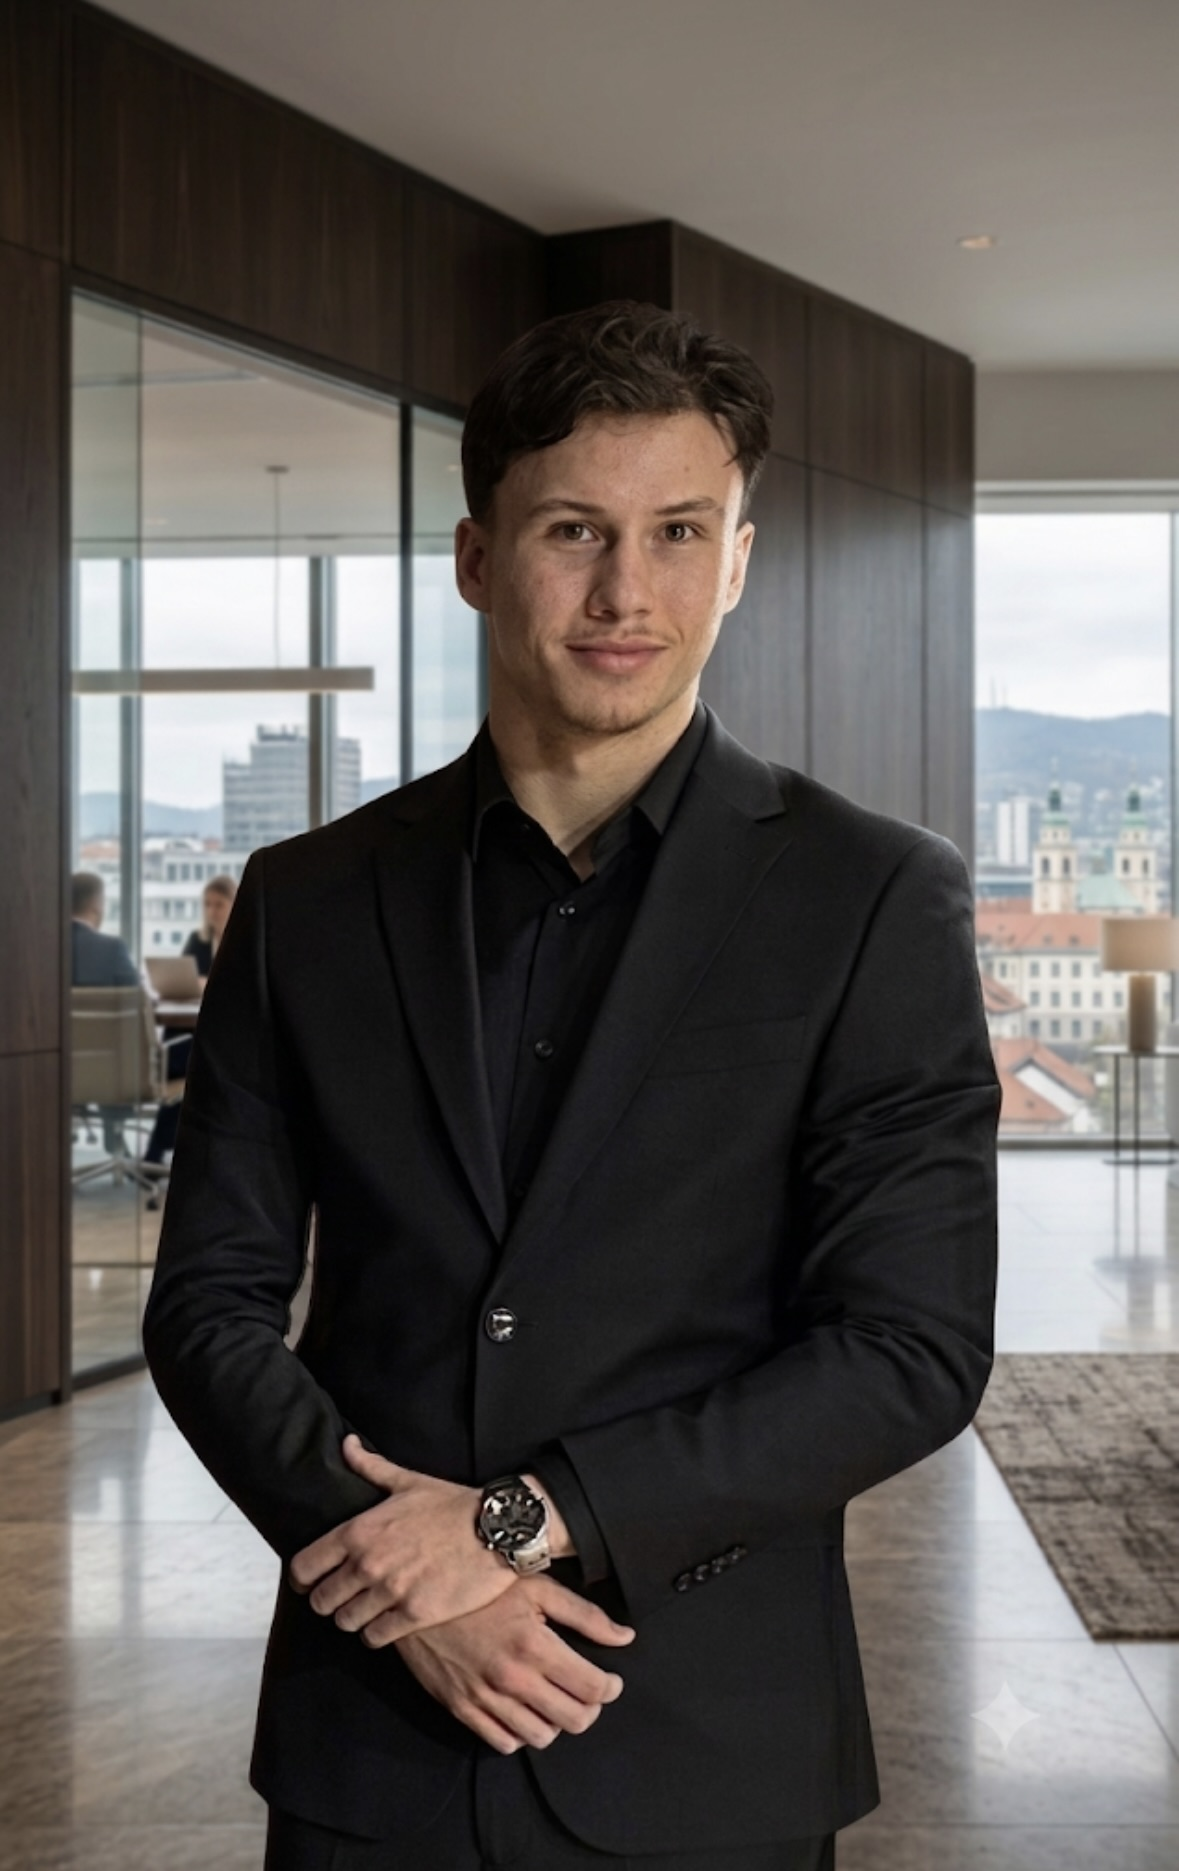
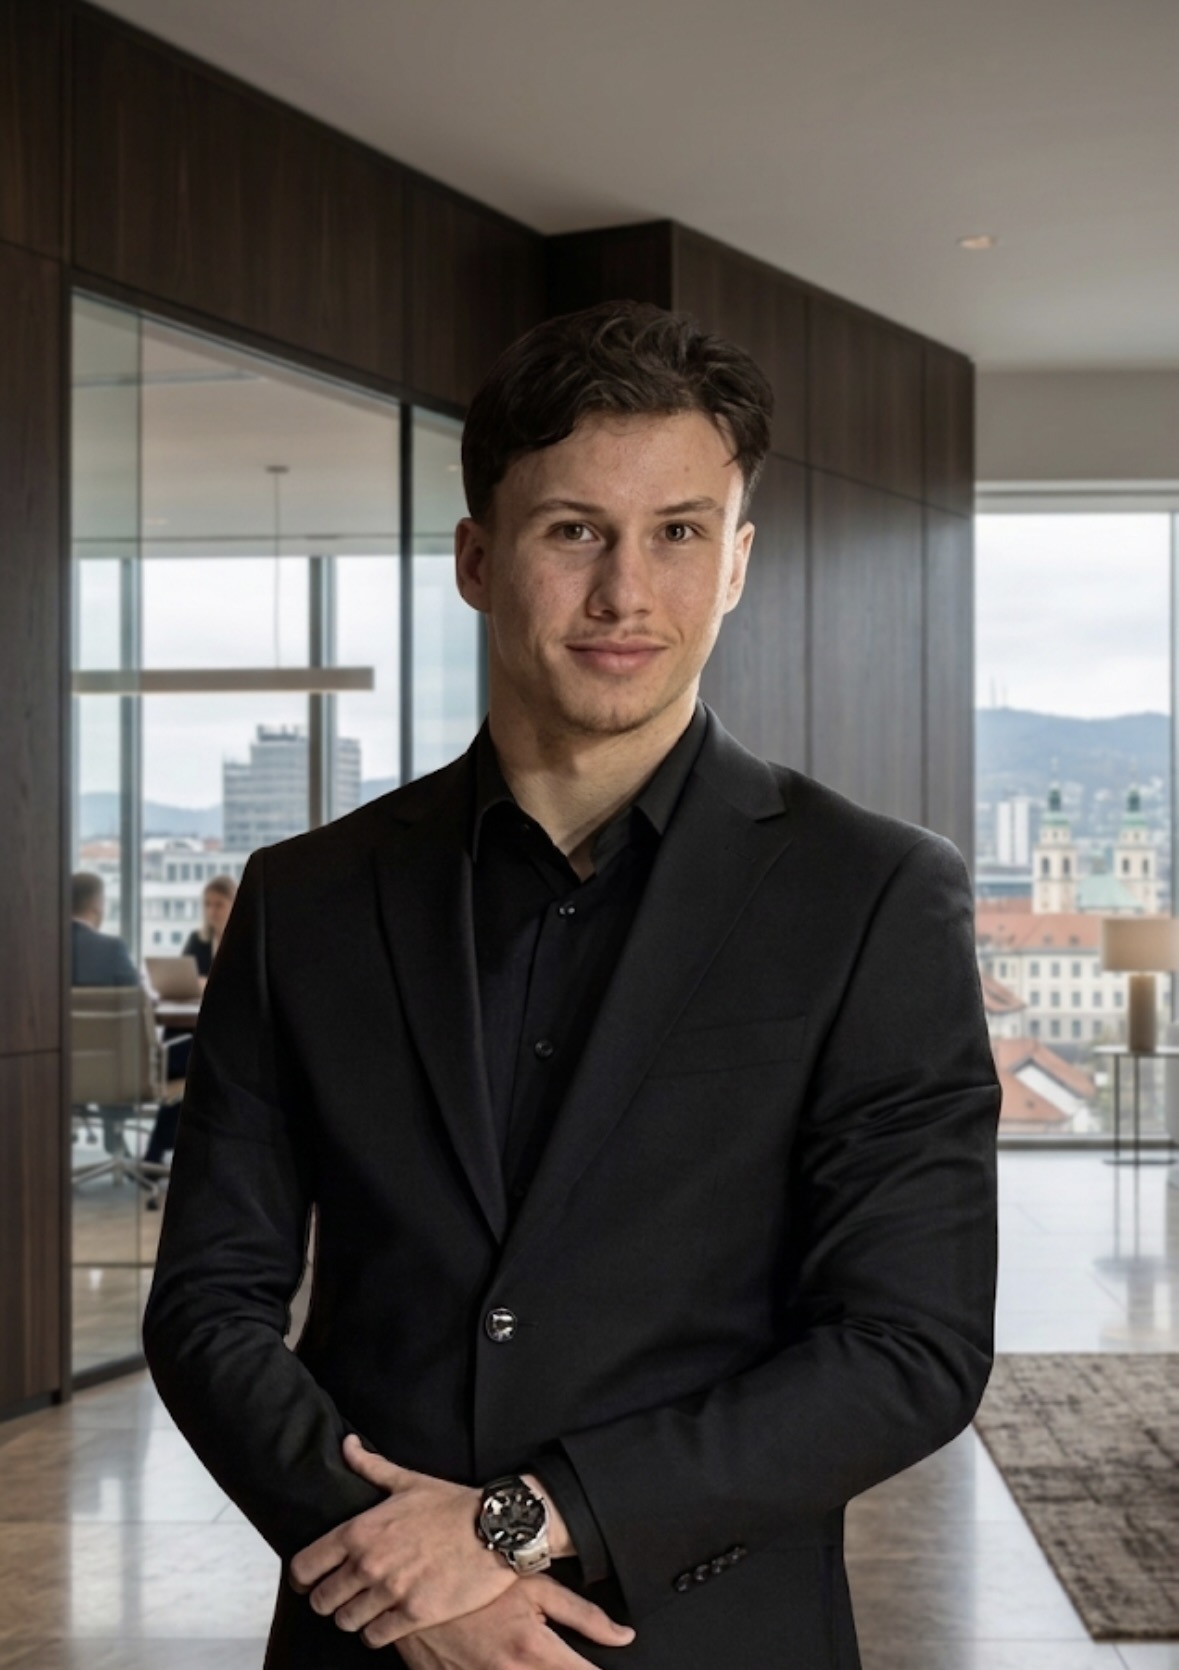
feat: o meni in postopek sekciji
Doda sekcijo O meni (portret prek next/image + prvoosebna zgodba) in
Postopek (styri ostevilceni koraki sodelovanja, brez ikon in kartic).
Portret nejc.jpg obrezan, da odstrani vodni zig spodaj desno. Vrstni
red sekcij v app/[lang]/page.tsx: Hero -> Storitve -> Postopek ->
O meni -> CTA.

Claude-Session: https://claude.ai/code/session_019zQ9YVCn5Y1usMdsC8HXN4

diff --git a/components/sections/OMeni.tsx b/components/sections/OMeni.tsx
@@ -1,0 +1,27 @@
+import Image from "next/image";
+import { Section } from "@/components/ui/Section";
+import { Heading } from "@/components/ui/Heading";
+import { getDictionary } from "@/lib/dictionary";
+
+export async function OMeni() {
+  const { about } = await getDictionary();
+
+  return (
+    <Section background="white">
+      <Heading as={2}>{about.title}</Heading>
+      <div className="mt-8 grid grid-cols-1 gap-8 md:grid-cols-3 md:gap-10">
+        <Image
+          src="/nejc.jpg"
+          alt={about.imageAlt}
+          width={1179}
+          height={1670}
+          className="w-full max-w-xs rounded-lg md:col-span-1 md:max-w-none"
+        />
+        <div className="space-y-4 text-azeno-muted md:col-span-2">
+          <p>{about.paragraph1}</p>
+          <p>{about.paragraph2}</p>
+        </div>
+      </div>
+    </Section>
+  );
+}

diff --git a/components/sections/Postopek.tsx b/components/sections/Postopek.tsx
@@ -1,0 +1,24 @@
+import { Section } from "@/components/ui/Section";
+import { Heading } from "@/components/ui/Heading";
+import { getDictionary } from "@/lib/dictionary";
+
+export async function Postopek() {
+  const { process: processDict } = await getDictionary();
+
+  return (
+    <Section background="surface">
+      <Heading as={2}>{processDict.title}</Heading>
+      <div className="mt-10 grid grid-cols-1 gap-8 sm:grid-cols-2 lg:grid-cols-4">
+        {processDict.steps.map((step, index) => (
+          <div key={step.title}>
+            <p className="text-3xl font-bold text-azeno-navy">{index + 1}</p>
+            <Heading as={3} className="mt-2">
+              {step.title}
+            </Heading>
+            <p className="mt-2 text-azeno-muted">{step.description}</p>
+          </div>
+        ))}
+      </div>
+    </Section>
+  );
+}

diff --git a/app/[lang]/page.tsx b/app/[lang]/page.tsx
@@ -1,5 +1,7 @@
 import { Hero } from "@/components/sections/Hero";
 import { Storitve } from "@/components/sections/Storitve";
+import { Postopek } from "@/components/sections/Postopek";
+import { OMeni } from "@/components/sections/OMeni";
 import { CTA } from "@/components/sections/CTA";
 
 export default function Home() {
@@ -7,6 +9,8 @@ export default function Home() {
     <>
       <Hero />
       <Storitve />
+      <Postopek />
+      <OMeni />
       <CTA />
     </>
   );
